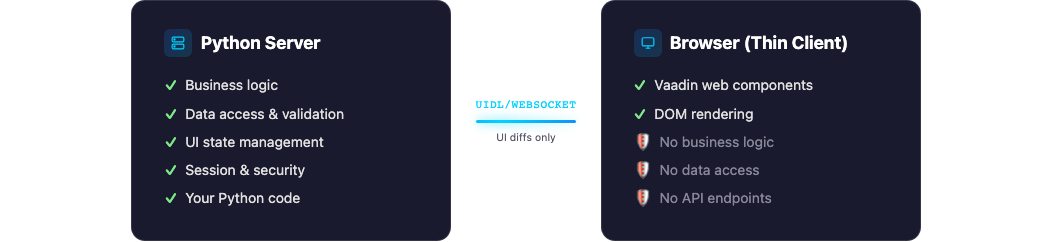
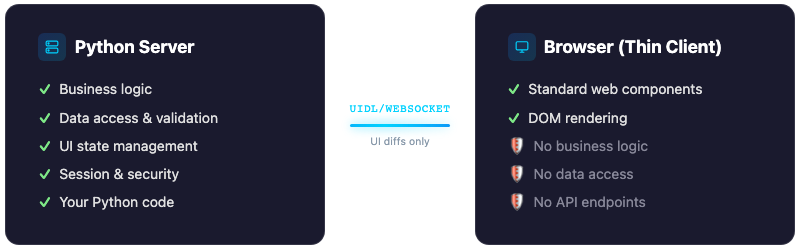
Update architecture diagram: readable wire text, standard web components

diff --git a/docs/index.html b/docs/index.html
@@ -493,7 +493,7 @@ footer .footer-links {
 }
 .arch-wire .wire-sub {
   font-size: 0.65rem;
-  color: #556;
+  color: #8899aa;
 }
 
 .arch-benefits {
@@ -670,7 +670,7 @@ footer .footer-links {
           Browser (Thin Client)
         </h3>
         <ul>
-          <li class="yes">Vaadin web components</li>
+          <li class="yes">Standard web components</li>
           <li class="yes">DOM rendering</li>
           <li>No business logic</li>
           <li>No data access</li>
